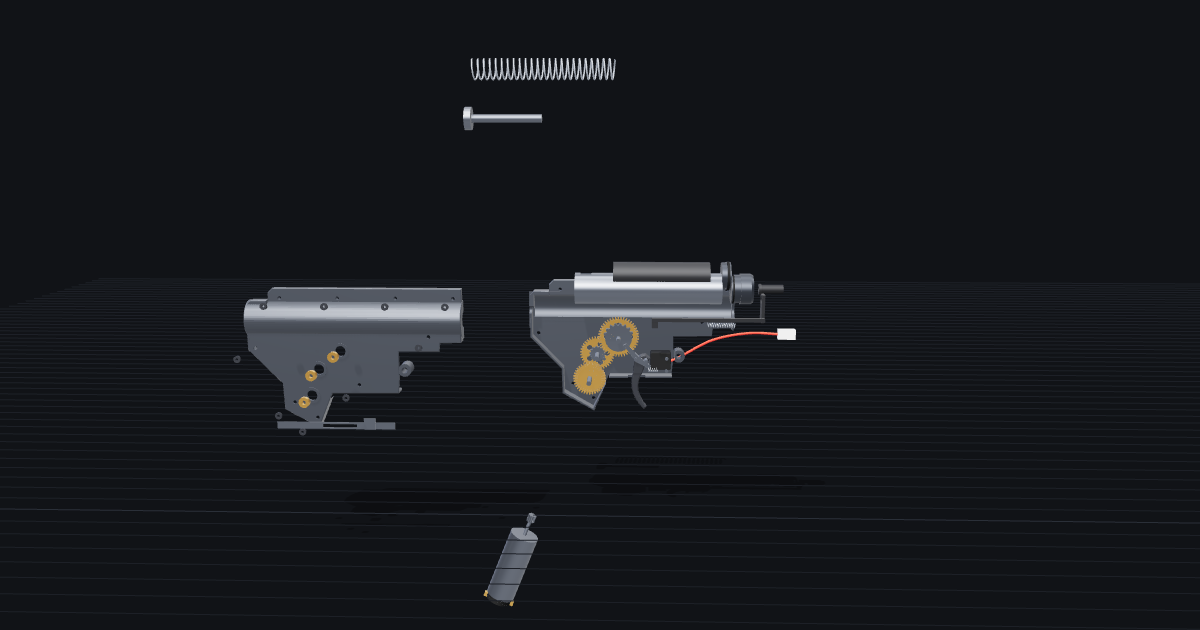
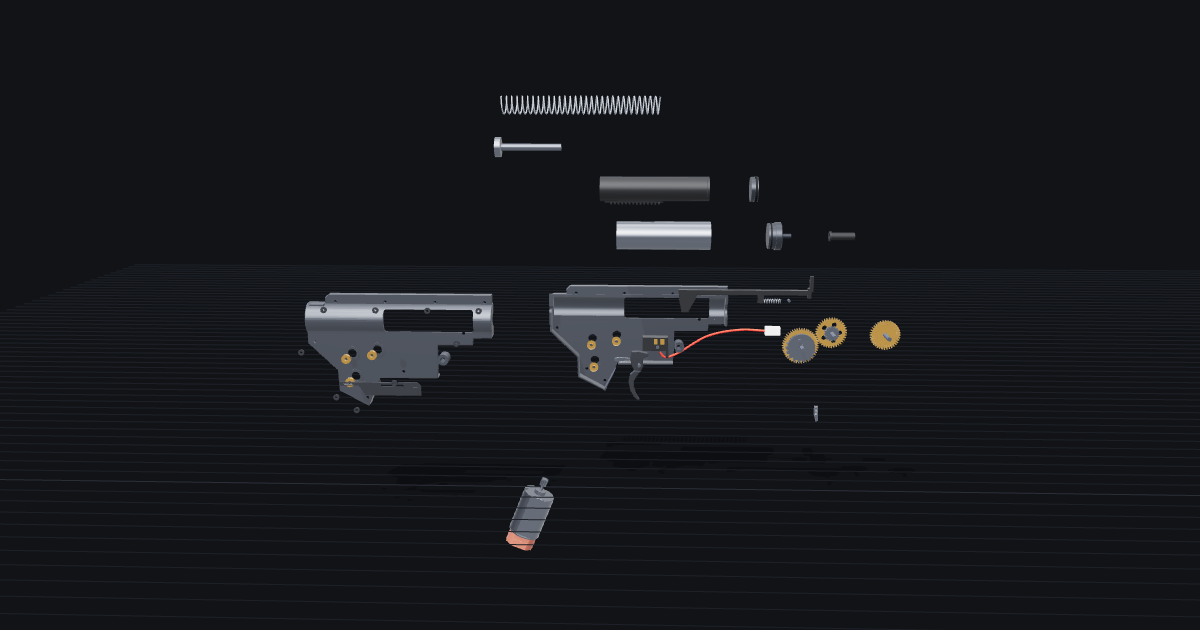
v2: place the inside parts from photos of open V2 gearboxes
The shell scan was stretched 10% tall to fit parts traced from an old
photo; it now keeps the scan's proportions at G&G's 162mm length. The
gears, cylinder, piston, tappet plate, switch, trigger, cut-off lever,
anti-reversal latch and selector plate are placed from iFixit's photos
of an open A&K V2 and checked against Sixmm's CYMA photos. Gear sizes
are set so each pair meshes, the piston is hollow with a 14-tooth rack,
the sector gear turns the right way and the trigger pulls back.

Changed region(s): [[0.185, 0.2714, 0.7708, 0.6937], [0.37, 0.0905, 0.555, 0.2413], [0.4008, 0.754, 0.4625, 0.9651]]

diff --git a/v2/index.html b/v2/index.html
@@ -614,24 +614,29 @@ function part(id, name, cat, spec, explode, stage, info, pieces, opts = {}) {
 // The shell follows Siris Rui's 3D scan of a V2 shell (Printables 778454, public domain; 159 x 99 x 25.5mm, which G&G's
 // listed 162 x 101 x 25mm confirms): a round cylinder housing with a screw fin along its top, over a narrower flat-sided
 // body that steps down to the stem the motor drives up into, with a lug for the front pin under its nose. A window is cut
-// through each side of the housing over the front half of the cylinder, as on the CYMA and Specna shells. The inside parts
-// follow the Stoner page's trace of an open V2 half (Team Black Sheep's photo, 3.5 px/mm); parts built in that page's frame
-// are shifted forward by D. VS maps the scan (y back from the front face, z up) onto the gears traced from the photo; the
-// round section is widened a little to clear that trace's cylinder and gears, and the step in front of the trigger is
-// moved 6mm forward of the scan's to clear the switch. Inside parts are approximate.
+// through each side of the housing over the cylinder, as on the CYMA and Specna shells. VS maps the scan (y back from the
+// front face, z up) into this frame, scaled up 2.6% to G&G's length. The scan is a closed outer shape, so the parts inside
+// are placed from iFixit's photo of an open A&K V2 laid flat (PH maps that photo, 1600px wide, at 6.9 px/mm), checked
+// against Sixmm's side photos of a CYMA V2: the gear axles, the cylinder, the tappet plate and its spring, the switch,
+// the trigger, the cut-off lever and the anti-reversal latch. Gear sizes are set so each pair meshes. Inside parts are
+// approximate.
 const D2R = Math.PI / 180;
-const NOZ_TIP = -20.9, D = NOZ_TIP + 141;            // nozzle tip; shift from the Stoner page's gearbox frame
+const NOZ_TIP = -20.9;                               // nozzle tip
 const GRIP_A = 21.5 * D2R;                           // motor lean, set by the raked stem
-const GX = px => NOZ_TIP + (px - 732) / 3.5, GY = py => (133 - py) / 3.5, GP = pts => pts.map(([a, b]) => [GX(a), GY(b)]);
-const SECTOR = [GX(365), GY(213)], SPUR = [GX(305), GY(263)], BEVEL = [GX(283), GY(335)];
-const GB_FRONT = -33.8, VS = ([y, z]) => [GB_FRONT - 1.026 * y, 1.1 * (z - 76.5)], VSP = pts => pts.map(VS);
-const GB_REAR = VS([158.75, 0])[0], HOUSE_R = 14, BODY_Z = 11, GB_FLOOR = -48.5;
-const sh = g => g.translate(D, 0, 0);
+const GB_FRONT = -33.8, VS = ([y, z]) => [GB_FRONT - 1.026 * y, 1.026 * (z - 76.5)], VSP = pts => pts.map(VS);
+const PH = (px, py) => [GB_FRONT + (px - 1227) / 6.9, (190 - py) / 6.9], PHP = pts => pts.map(p => PH(...p));
+const GB_REAR = VS([158.75, 0])[0], HOUSE_R = 14, BODY_Z = 11, GB_FLOOR = VS([0, 27])[1];
+// gear axles: the photos put the sector at (-135, -26) and the bevel at (-155.5, -50.5); the spur sits where its pinion
+// meshes the sector (16.2 + 6.8) and its big gear the bevel's pinion (14 + 7)
+const SECTOR = [-135, -26], SPUR = [-157.7, -29.6], BEVEL = [-155.5, -50.5];
+const SEC_R = 16.2, SEC_PIN = 6.8, SPUR_R = 14, BEV_PIN = 7, SEC_T = 14;   // sector big gear, spur pinion, spur big gear, bevel pinion, sector teeth
 const ringZ = (ri, ro, cx, cy, z0, z1, seg = 24) => latheX([[ri, z0], [ro, z0], [ro, z1], [ri, z1], [ri, z0]], seg).rotateY(-Math.PI / 2).translate(cx, cy, 0);
 const GB_PIN = VS([42.5, 42.3]);
 const GB_SCREWS = VSP([[153, 57.4], [126, 19], [109.4, 8], [76.9, 31.7], [24, 66]]), GB_TOP_SCREWS = [6.25, 48.75, 91.9, 135].map(y => VS([y, 91.6]));
-const TRG_PV = [-103.8, -39.6];                      // trigger pivot
-const TRG_SLOT = bx(-118, -104, -62, -50, -4, 4);    // where the trigger blade leaves the bottom of the shell
+const TRG_PV = PH(645, 507);                         // trigger pivot
+const TRG_SLOT = bx(-130, -115, -60, -46, 1, 7);     // where the trigger blade leaves the bottom of the shell
+// the air system at rest, piston forward: cylinder, its head, the piston's back end and the inside face of its head
+const CYL = [PH(600, 0)[0], -46], PST_BACK = -149, PST_FLOOR = -58;
 // Each part comes off in strip order: the motor and the selector plate first, then the right half, the spring and guide,
 // the cylinder and piston with the tappet plate, the gears, and last the trigger group. STAGE gives each step's span.
 const STAGE = { motor: [0, 0.1], plate: [0.08, 0.18], half: [0.16, 0.3], spring: [0.3, 0.42], air: [0.4, 0.55], gears: [0.53, 0.7], trig: [0.68, 0.85], wires: [0.8, 0.95] };
@@ -659,7 +664,7 @@ function gbHalf(s) {   // s = -1 left half, +1 right half; the halves meet on th
   const holes = [bore, pocket, TRG_SLOT, cyl(6, 6, 'x', GB_FRONT, 0, 0, 24), cyl(3.2, 6, 'x', GB_REAR, 0, 0, 16),
     ...[SECTOR, SPUR, BEVEL].map(([x, y]) => cyl(4, 40, 'z', x, y, 0, 24)), cyl(2.3, 40, 'z', ...GB_PIN, 0, 16),
     ...[...GB_SCREWS, ...GB_TOP_SCREWS].map(([x, y]) => cyl(1.4, 40, 'z', x, y, 0, 12))];
-  // the cylinder window: the side of the housing is open over the front half of the cylinder, corners radiused
+  // the cylinder window: the side of the housing is open over the cylinder, corners radiused
   const win = prof(rr(VS([92, 0])[0], VS([15, 0])[0], -9.8, 10.2, 2.5), 16, 0).translate(0, 0, s * 13);
   const half = Array.from({ length: 33 }, (_, i) => { const t = Math.PI * (i / 32 - 0.5); return [s * HOUSE_R * Math.cos(t), HOUSE_R * Math.sin(t)]; });
   const body = cut(profR(out, BODY_Z, 0.8).translate(0, 0, s * BODY_Z / 2), [...holes, win]);
@@ -672,7 +677,7 @@ function gbHalf(s) {   // s = -1 left half, +1 right half; the halves meet on th
 }
 const bushings = s => [SECTOR, SPUR, BEVEL].map(([x, y]) => [ringZ(1.6, 4, x, y, s * (BODY_Z - 2.5), s * (BODY_Z + 0.8)), 'brass']);
 part('gearboxL', 'Shell, left half', 'shell', 'Zinc alloy casting; CNC aluminium shells are the upgrade', [0, 0, 0], STAGE.half,
-  'Left half of the shell. It stays put while everything else comes out: the inside parts all sit in this half, so the gearbox is opened by lifting the right half off. Its shape follows a 3D scan of a real shell: the round housing on top for the cylinder with a window cut in its side over the front half of the cylinder, the fin along its top for four screws, the flat-sided body, the step in front of the trigger, and the raked stem at the back that drops into the pistol grip with the bevel gear in it. The lug under the nose takes the front body pin.',
+  'Left half of the shell. It stays put while everything else comes out: the inside parts all sit in this half, so the gearbox is opened by lifting the right half off. Its shape follows a 3D scan of a real shell: the round housing on top for the cylinder with a window cut in its side over the cylinder, the fin along its top for four screws, the flat-sided body, the step in front of the trigger, and the raked stem at the back that drops into the pistol grip with the bevel gear in it. The lug under the nose takes the front body pin.',
   gbHalf(-1), { shell: true });
 part('gearboxR', 'Shell, right half', 'shell', 'Same casting as the left, mirrored', [-210, 0, 40], STAGE.half,
   'Right half. Take out the selector plate and the screws first, then lift it straight off: the spring is under load, so keep a thumb on the spring guide until it comes free.',
@@ -691,85 +696,87 @@ part('screws', 'Shell screws (x9)', 'shell', 'Phillips, five on the side and fou
 // ================= AIR SYSTEM =================
 part('springGuide', 'Spring guide', 'air', 'Fixed, or quick-change on many shells', [-40, 150, 40], STAGE.spring,
   'Guide rod the main spring rides on, its flange held in the back of the shell. Steel guides with a bearing under the spring let the spring turn as it compresses, so it does not twist the piston. Quick-change shells let the guide come out from the back without opening the gearbox.',
-  [[latheX([[0, GB_REAR - 1.5], [8.5, GB_REAR - 1.5], [8.5, GB_REAR + 3.5], [3, GB_REAR + 3.5], [3, -262 + D], [0, -262 + D]], 20), 'steel']]);
+  [[latheX([[0, GB_REAR - 1.5], [8.5, GB_REAR - 1.5], [8.5, GB_REAR + 3.5], [3, GB_REAR + 3.5], [3, -142], [0, -142]], 20), 'steel']]);
 part('mainSpring', 'Main spring', 'air', 'Rated M90 to M150; the rating sets the power', [-40, 185, 40], STAGE.spring,
   'The spring the sector gear compresses through the piston. Its rating (M90, M100, M120 and so on) sets the muzzle velocity more than anything else in the gearbox; stronger springs load the gears and the motor harder.',
-  [[spring(7.2, 0.7, 104, 24, 'x', GB_REAR + 4.5, 0, 0), 'spring']]);
+  [[spring(7.2, 0.7, PST_FLOOR - GB_REAR - 4.5, 30, 'x', GB_REAR + 4.5, 0, 0), 'spring']]);
+// 14 rack teeth on the underside, the rearmost over the sector gear's axle when the piston is forward; the spring runs
+// inside the hollow body
 part('piston', 'Piston', 'air', 'Polymer, 14 teeth on the rack', [0, 115, 40], STAGE.air,
-  'Polymer piston with a toothed rack along its underside. The sector gear draws it back by the rack, compressing the spring, and lets it go off the last tooth. The spring runs inside it. The first tooth takes the shock of each pickup, which is why half-steel and full-steel racks exist.',
-  [[sh(latheX([[0, -250], [10.6, -250], [10.6, -175], [0, -175]], 28)), 'nylon'],
-   [sh(bx(-250, -237, -11.6, -9, -2, 2)), 'steel'],
-   ...Array.from({ length: 6 }, (_, i) => [sh(bx(-249.4 + i * 2.2, -248.2 + i * 2.2, -13, -11.5, -2, 2)), 'steel'])]);
+  'Polymer piston, hollow for the spring, with a toothed rack along its underside. The sector gear picks up the rearmost tooth and draws the piston back by the rack, compressing the spring, and lets it go off the front tooth. The first tooth takes the shock of each pickup, which is why half-steel and full-steel racks exist.',
+  [[latheX([[8.8, PST_BACK], [10.6, PST_BACK], [10.6, -56], [0, -56], [0, PST_FLOOR], [8.8, PST_FLOOR], [8.8, PST_BACK]], 28), 'nylon'],
+   [bx(PST_BACK + 4, -95, -11.4, -9, -2, 2), 'nylon'],
+   [mergeGeometries(Array.from({ length: 14 }, (_, i) => prof([[-1.1, 0], [1.1, 0], [0.55, -2], [-0.55, -2]], 4, 0).translate(-139.4 + i * 3.14, -11.2, 0))), 'nylon']]);
 part('pistonHead', 'Piston head + O-ring', 'air', 'Polymer or aluminium, ported or sealed', [35, 115, 40], STAGE.air,
   'Head screwed to the front of the piston with its O-ring. It seals against the cylinder wall and drives the air forward; a ported head and a sealed one trade a quieter stroke against a softer seal.',
-  [[sh(latheX([[0, -175], [10.6, -175], [10.6, -172], [10.8, -172], [10.8, -168], [0, -168]], 28)), 'alu'],
-   [sh(latheX([[10, -171], [11.2, -171], [11.2, -169], [10, -169]], 24)), 'black']]);
+  [[latheX([[0, -56], [10.6, -56], [10.6, -53], [10.8, -53], [10.8, -50], [0, -50]], 28), 'alu'],
+   [latheX([[10, -52.6], [11.2, -52.6], [11.2, -50.8], [10, -50.8]], 24), 'black']]);
 part('cylinder', 'Cylinder', 'air', 'Ported, its type matched to the inner barrel length', [-10, 75, 40], STAGE.air,
-  'Cylinder the piston runs in. Its port lets only part of the swept air reach the barrel; the port is sized to the inner barrel (type 0 to 4, or a full unported cylinder for long barrels), so a barrel swap can call for a different cylinder.',
-  [[cut(tube(11.3, 12.2, GX(255), GX(655), 32), [bx(GX(270), GX(300), 5, 20, -4, 4)]), 'steel']]);
+  'Cylinder the piston runs in, about 80mm long. Its port lets only part of the swept air reach the barrel; the port is sized to the inner barrel (type 0 to 4, or a full unported cylinder for long barrels), so a barrel swap can call for a different cylinder.',
+  [[cut(tube(11.3, 12.2, CYL[0], CYL[1] + 2, 32), [bx(-104, -92, 5, 14, -2.6, 2.6)]), 'steel']]);
 part('cylinderHead', 'Cylinder head + O-ring', 'air', 'Polymer or aluminium', [45, 75, 40], STAGE.air,
   'Plug in the front of the cylinder, with an O-ring sealing it to the cylinder and a padded face the piston head stops against. The nozzle slides on its front spigot.',
-  [[sh(latheX([[3.4, -170], [11.2, -170], [11.2, GX(655) - D], [12.2, GX(655) - D], [12.2, GX(683) - D], [11, GX(690) - D], [3.4, GX(690) - D]], 28)), 'alu'],
-   [sh(latheX([[10.6, -169.1], [11.4, -169.1], [11.4, -167.9], [10.6, -167.9]], 24)), 'black']]);
+  [[latheX([[0, -50], [11.2, -50], [11.2, -44], [12.2, -44], [12.2, -39.2], [11, -38.5], [2.1, -38.5], [2.1, -30], [0, -30]], 28), 'alu'],
+   [latheX([[10.6, -48.2], [11.4, -48.2], [11.4, -47], [10.6, -47]], 24), 'black']]);
 part('nozzle', 'Air nozzle', 'air', 'M4: 21.4mm; length varies by gun', [90, 75, 40], STAGE.air,
-  'Nozzle that slides on the cylinder head\'s spigot, its tip reaching into the hop-up. The tappet plate pulls it back so a BB can rise from the magazine, then pushes it forward to seat the BB in the bucking. The one part that differs most between V2 guns: an M4 nozzle is 21.4mm, an MP5\'s a little shorter, and the wrong length feeds badly or leaks.',
-  [[sh(tube(2.2, 3.4, -160, -141, 20)), 'nylon'], [sh(tube(2.2, 4.2, -160, -158, 20)), 'nylon']]);
+  'Nozzle that slides on the cylinder head\'s spigot, its tip reaching into the hop-up. Its collar sits in the tappet plate\'s fork, which pulls it back so a BB can rise from the magazine, then pushes it forward to seat the BB in the bucking. The one part that differs most between V2 guns: an M4 nozzle is 21.4mm, an MP5\'s a little shorter, and the wrong length feeds badly or leaks.',
+  [[tube(2.2, 3.4, NOZ_TIP - 21.4, NOZ_TIP, 20), 'nylon'], [tube(2.2, 4.4, NOZ_TIP - 21.4, NOZ_TIP - 20, 20), 'nylon']]);
+// tappet plate, from the photo: a strip along the bottom of the cylinder, a riser at the front with the fork round the
+// nozzle, a hook for the return spring, and a tab hanging down behind the sector gear's axle for its cam pin
 part('tappet', 'Tappet plate + spring', 'air', 'Polymer; M4 and MP5 types differ', [70, 40, 40], STAGE.air,
-  'Plate under the cylinder whose fork holds the nozzle. A cam on the sector gear pulls it back once per turn, and its return spring snaps it forward to chamber the next BB.',
-  [[sh(cut(bx(-152.5, -150, -17, 5, -5, 5), [cyl(3.5, 6, 'x', -151, 0, 0, 16)])), 'nylon'],
-   [sh(bx(-238, -150, -16, -13.2, 5, 8)), 'nylon'], [sh(bx(-238, -233, -21, -13.2, 5, 8)), 'nylon'],
-   [spring(1.6, 0.35, 22, 12, 'x', GX(545), -18.6, 6.5), 'spring']]);
+  'Plate along the bottom of the cylinder, its fork at the front holding the nozzle. A pin on the sector gear pushes its tab back once per turn, drawing the nozzle back to let a BB up, and the return spring in front snaps it forward to chamber the BB.',
+  [[profR(PHP([[420, 268], [1188, 268], [1188, 255], [1212, 255], [1212, 318], [1188, 318], [1188, 300], [930, 300], [930, 345], [912, 352], [895, 345], [895, 300], [530, 300], [520, 330], [480, 408], [440, 408], [425, 330]]), 3, 0.4).translate(0, 0, 4.5), 'nylon'],
+   [cut(bx(-37.6, -34.6, -4.6, 1, 0.5, 6), [cyl(3.5, 8, 'x', -36, 0, 0, 20)]), 'nylon'], [bx(-37.6, -34.6, -12.5, -4.6, 3, 6), 'nylon'],
+   [spring(1.8, 0.35, 15, 10, 'x', PH(930, 0)[0], PH(0, 336)[1], 4.5), 'spring'],
+   [cyl(1.2, 5, 'z', ...PH(1080, 332), 4.5, 12), 'steel']]);
 
 // ================= GEARS =================
 part('sectorGear', 'Sector gear', 'gear', 'Teeth on part of its edge only', [165, 0, 30], STAGE.gears,
-  'Gear with teeth on part of its edge: they draw the piston back by its rack and then run out, letting the piston go once per turn. Its cam works the tappet plate and the cut-off lever. Shims on the axle set its play; too much play chews the piston rack.',
-  (() => { const [sx, sy] = SECTOR;
-    return [[gear(16.5, 44, 3, sx, sy, -5.5, { hole: 2, lite: 4 }), 'brass'], [gear(12.4, 18, 3.6, sx, sy, 0, { hole: 2, span: [15, 175] }), 'steel'],
-      [cyl(6.5, 2, 'z', sx, sy, -2.9, 24), 'brass'], [cyl(1.9, 22, 'z', sx, sy, 0, 12), 'steel']]; })());
+  'Gear with teeth on half its edge: they pick up the piston\'s rack, draw it back 44mm, then run out and let it go, once per turn. The pin on its face pushes the tappet plate back first, and the cam on its other face trips the cut-off lever. Shims on the axle set its play; too much play chews the piston rack.',
+  (() => { const [sx, sy] = SECTOR, pin = [sx + 7 * Math.cos(110 * D2R), sy + 7 * Math.sin(110 * D2R)];
+    return [[gear(SEC_R, 46, 3, sx, sy, -5.6, { hole: 2, lite: 5 }), 'brass'], [gear(SEC_T, 18, 3.6, sx, sy, 0, { hole: 2, span: [162, 342] }), 'steel'],
+      [cyl(1.4, 3, 'z', ...pin, 3.2, 12), 'steel'], [cyl(4, 1.2, 'z', sx, sy, -7.7, 20), 'steel'], [cyl(1.9, 22, 'z', sx, sy, 0, 12), 'steel']]; })());
 part('spurGear', 'Spur gear', 'gear', 'Middle gear', [215, 15, 30], STAGE.gears,
   'Middle gear between the bevel and the sector gear. The three gears together set the ratio; around 18:1 is the common stock ratio, lower numbers trade pull for rate of fire.',
   (() => { const [px, py] = SPUR;
-    return [[gear(14, 37, 2.5, px, py, -8.4, { hole: 2, lite: 5 }), 'brass'], [gear(6.5, 15, 3.6, px, py, -5.5, { hole: 2 }), 'steel'], [cyl(1.9, 22, 'z', px, py, 0, 12), 'steel']]; })());
+    return [[gear(SPUR_R, 37, 2.5, px, py, -8.4, { hole: 2, lite: 5 }), 'brass'], [gear(SEC_PIN, 16, 3.6, px, py, -5.5, { hole: 2 }), 'steel'], [cyl(1.9, 22, 'z', px, py, 0, 12), 'steel']]; })());
 part('bevelGear', 'Bevel gear', 'gear', 'Crown teeth for the motor pinion', [260, 35, 30], STAGE.gears,
   'Gear with crown teeth on its face that the motor\'s pinion drives. The ratchet teeth on its rim are for the anti-reversal latch. The motor height screw in the grip sets how deep the pinion meshes; a whine means it is off.',
   (() => { const [bx0, by0] = BEVEL;
     const crown = mergeGeometries(Array.from({ length: 36 }, (_, i) => bx(9.6, 13.2, -0.55, 0.55, -4.6, -3.4).rotateZ(i * 10 * D2R))).translate(bx0, by0, 0);
-    return [[gear(13.4, 36, 2, bx0, by0, -5.6, { hole: 2 }), 'brass'], [crown, 'brass'], [gear(7, 17, 2.6, bx0, by0, -8.4, { hole: 2 }), 'steel'], [cyl(1.9, 22, 'z', bx0, by0, 0, 12), 'steel']]; })());
+    return [[gear(13.4, 36, 2, bx0, by0, -5.6, { hole: 2 }), 'brass'], [crown, 'brass'], [gear(BEV_PIN, 17, 2.6, bx0, by0, -8.4, { hole: 2 }), 'steel'], [cyl(1.9, 22, 'z', bx0, by0, 0, 12), 'steel']]; })());
+// the latch pivots on a post against the back wall of the stem, its tip on the bevel gear's rim; its tail reaches the
+// side of the shell, where a pick through the hole releases it
 part('antiReversal', 'Anti-reversal latch + spring', 'gear', 'Ratchet pawl on the bevel gear', [215, -40, 30], STAGE.gears,
   'Pawl riding on the bevel gear that stops the gears running backwards under spring load when the motor stops. Release it (a tool through the shell, or by hand once open) before taking the gears out, or the spring unloads through your fingers.',
-  [[sh(profR([[-259, -40], [-255.6, -40.6], [-256, -44], [-260, -49.4], [-262, -48.4]], 2, 0.3)).translate(0, 0, -8.4), 'steel'],
-   [sh(cyl(1.2, 5, 'z', -257.4, -41.6, -8.4, 10)), 'steel']]);
+  [[profR([[-170, -42.6], [-166.8, -42.6], [-166, -56.4], [-168, -57.6], [-170, -50]], 2, 0.3).translate(0, 0, -5.6), 'steel'],
+   [cyl(1.2, 6, 'z', -168.5, -44.2, -5.6, 10), 'steel'], [spring(0.9, 0.25, 6, 5, 'y', -168.4, -50, -3.6), 'spring']]);
 
 // ================= TRIGGER, SWITCH AND SELECTOR =================
 part('trigger', 'Trigger + spring', 'trig', 'M4 type; other guns use their own', [70, -70, 30], STAGE.trig,
-  'Trigger on its pin in the shell, its blade out through the slot in the bottom. Pulling it pushes the switch contacts closed; its spring returns it. The blade differs between guns (an MP5\'s reaches further down); the part inside the gearbox stays the same.',
-  (() => {
-    const q = (t, a, b, c) => (1 - t) ** 2 * a + 2 * t * (1 - t) * b + t * t * c, F = [], B = [];
-    for (let i = 0; i <= 12; i++) {   // blade along a quadratic curve, tapering to the tip and curling forward
-      const t = i / 12, x = q(t, -110, -117, -104), y = q(t, -50, -66, -80);
-      const dx = 2 * (1 - t) * (-117 + 110) + 2 * t * (-104 + 117), dy = 2 * (1 - t) * (-66 + 50) + 2 * t * (-80 + 66), l = Math.hypot(dx, dy), w = 3.4 - 1.8 * t;
-      F.push([x - dy / l * w, y + dx / l * w]); B.push([x + dy / l * w, y - dx / l * w]);
-    }
-    return [[profR([[-100.2, -38.7], [-104, -35.6], [-108, -36.4], [-113, -41], [-114.2, -52], [-107, -52], [-104, -44]], 7, 1), 'blued'],
-      [profR([...F, ...B.reverse()], 6, 1), 'blued'],
-      [cyl(1.5, 22, 'z', ...TRG_PV, 0, 12), 'steel'], [spring(1.6, 0.3, 8, 5, 'x', TRG_PV[0] + 2, TRG_PV[1] - 8, 4), 'spring']];
-  })());
+  'Trigger on its pin in the shell, its blade out through the slot in the bottom. Pulling it lifts its front arm into the switch and closes the contacts; its spring returns it. The blade differs between guns (an MP5\'s reaches further down); the part inside the gearbox stays the same.',
+  [[profR(PHP([[598, 420], [645, 418], [700, 430], [705, 447], [668, 470], [672, 515], [657, 548], [615, 545], [598, 515], [588, 465]]), 4, 0.6).translate(0, 0, 4), 'blued'],
+   [profR(PHP([[657, 548], [637, 575], [614, 615], [614, 660], [630, 705], [650, 738], [640, 744], [616, 724], [590, 682], [578, 622], [588, 570], [615, 545]]), 4, 0.8).translate(0, 0, 4), 'blued'],
+   [cyl(1.5, 20, 'z', ...TRG_PV, 0, 12), 'steel'], [spring(1.4, 0.3, 7, 5, 'y', TRG_PV[0] - 4, TRG_PV[1] - 4, 1.4), 'spring']]);
 part('switch', 'Switch assembly', 'trig', 'Contacts; a MOSFET or ETU takes the load off them', [110, -60, 30], STAGE.trig,
-  'Trigger contacts in a block screwed into the shell. The trigger closes them and the motor runs; the cut-off lever lifts them open once per cycle on semi. The contacts carry the full motor current and burn over time, the main reason for fitting a MOSFET or an electronic trigger unit.',
-  [[profR(rr(GX(455), GX(512), GB_FLOOR + 1, GY(250), 1, 2), 10, 0.5), 'black'],
-   ...[267, 302].map(py => [ringZ(0, 1.4, GX(500), GY(py), 5, 5.8, 12), 'steel']),
-   [bx(GX(470), GX(478), GB_FLOOR + 2, GY(262), -3, 3), 'brass']]);
+  'Trigger contacts in a block screwed into the shell, in front of the sector gear. The trigger\'s arm closes them and the motor runs; the cut-off lever lifts them open once per cycle on semi. The contacts carry the full motor current and burn over time, the main reason for fitting a MOSFET or an electronic trigger unit.',
+  [[profR(PHP([[650, 330], [810, 330], [815, 465], [798, 465], [798, 420], [650, 420]]), 8, 0.5).translate(0, 0, 1.5), 'nylon'],
+   ...[[722, 744], [762, 788]].map(([a, b]) => [bx(PH(a, 0)[0], PH(b, 0)[0], PH(0, 376)[1], PH(0, 340)[1], 5.5, 6.1), 'brass']),
+   [cyl(1.6, 9, 'z', ...PH(745, 395), 1.5, 12), 'steel']]);
 part('cutoff', 'Cut-off lever + spring', 'trig', 'Semi-auto cut-off', [70, -30, 30], STAGE.trig,
   'Lever under the sector gear: a cam on the gear knocks it each turn, and on semi it lifts the switch open so the motor stops after one shot. Put it back before the trigger, with its spring hooked.',
-  [[sh(profR([[-242, -27.5], [-239.5, -26], [-230, -36], [-219, -45], [-220.5, -47.5], [-232, -41]], 1.6, 0.3)).translate(0, 0, 4), 'steel'],
-   [sh(cyl(1.4, 4, 'z', -232, -39, 4, 10)), 'steel']]);
+  [[profR(PHP([[488, 492], [500, 482], [585, 486], [592, 496], [580, 504], [500, 508]]), 1.6, 0.3).translate(0, 0, 1.2), 'steel'],
+   [cyl(1.4, 4, 'z', ...PH(497, 496), 1.2, 10), 'steel'], [spring(0.8, 0.22, 7, 5, 'x', ...PH(520, 512), 1.2), 'spring']]);
+// the selector plate sits on the outside of the right half, over the sector gear's bushing and above the spur's (the
+// scan's 75 x 15mm block)
 part('selPlate', 'Selector plate', 'trig', 'M4 type; set by the gun\'s selector', [-210, -30, 60], STAGE.plate,
   'Slotted plate on the outside of the right half. The gun\'s selector lever turns a cam that slides it, and its tabs reach through the shell to block the trigger (safe) or set the switch for semi or full. The first part off; it is easy to lose its spring. The plate differs between gun families.',
-  [[cut(bx(-170, GX(520), GY(300), GY(282), BODY_Z, BODY_Z + 0.9), [bx(GX(330), GX(420), GY(296), GY(287), 10, 20)]), 'steel'],
-   [bx(GX(440), GX(470), GY(300), GY(270), BODY_Z + 0.9, BODY_Z + 2.2), 'steel']]);
+  [[cut(profR([[-164, -19.5], [-96, -19.5], [-93, -22.5], [-93, -31.5], [-142, -31.5], [-147, -22.8], [-164, -22.8]], 0.9, 0.2).translate(0, 0, BODY_Z + 1.25),
+     [prof(rr(-128, -108, -23.4, -21.6, 0.9), 4, 0).translate(0, 0, BODY_Z)]), 'blued'],
+   [bx(-100, -96, -30.5, -24, BODY_Z + 1.7, BODY_Z + 3), 'blued'], [spring(0.7, 0.2, 8, 6, 'x', -160, -21.15, BODY_Z + 2.2), 'spring']]);
 part('wiring', 'Wiring + connector', 'trig', 'Front or rear wired', [130, -95, 20], STAGE.wires,
   'Leads from the switch and the motor. This one is front-wired: the leads run forward under the cylinder to a battery in the handguard. Rear-wired gearboxes route them back along the shell to a battery in the stock.',
-  [[tubeAlong([[GX(470), GB_FLOOR + 2, -6], [-80, -42, -9], [-50, -26, -9], [-20, -20, -9], [2, -20, -6]], 1.1, 60), 'red'],
+  [[tubeAlong([[...PH(805, 470), -4], [-90, -46, -6], [-80, -44, -9], [-50, -26, -9], [-20, -20, -9], [2, -20, -6]], 1.1, 60), 'red'],
    [bx(2, 16, -24, -16, -9, -3), 'white']]);
 
 // ================= OUTSIDE THE GEARBOX =================
@@ -912,7 +919,9 @@ const SOURCES = `<p class="src">Sources: <a href="https://www.printables.com/mod
 <a href="https://www.youtube.com/watch?v=yAk1HI4xbGk">D-RZ Airsoft, MP5 gearbox removal</a> (a stock V2 opened up),
 <a href="https://www.patrolbase.co.uk/gearboxes">Patrol Base product photos of CYMA and Specna V2 shells</a> and <a href="https://www.retroarms.com/cnc-gearbox/cnc-gearbox-v2-8mm-bearings-qsc">RetroArms, CNC V2 shell</a> (the cylinder window),
 <a href="https://www.vsdmotor.com/airsoft-motor/high-speed-long-d-axis-airsoft-aeg-motor.html">VSD, long-type AEG motor outline drawing</a> (the motor's dimensions),
-<a href="../stoner96/">Stoner 96 page</a> (the trace of the inside parts). Inside shapes and positions are approximate.</p>`;
+<a href="https://www.ifixit.com/Guide/Airsoft+V2+Gearbox++Piston+Replacement/130410">iFixit, Airsoft V2 gearbox piston replacement</a> (photos of an open A&amp;K V2: where the gears, cylinder, tappet plate, switch, trigger, cut-off lever and anti-reversal latch sit),
+<a href="https://www.sixmm.com/products/cymaitem-no-ma001-complete-gearbox-full-set-version-2for-aeg-m16">Sixmm, CYMA complete V2 gearbox</a> (both sides closed: the bushings, the selector plate, the 80mm cylinder),
+<a href="https://gunfire.com/en/products/complete-gearbox-v2-specna-arms-aether-tm-hal-tm-etu-1152240884.html">Gunfire, Specna Arms Aether V2 gearbox</a> (the gear layout marked on its shell). Inside shapes and positions are approximate.</p>`;
 function showOverview() {
   infoBody.innerHTML = `<h2>V2 gearbox</h2>
   <div class="meta">The Tokyo Marui Version 2 gearbox: the split-shell AEG gearbox of the M4/M16 and MP5 families and the many guns built round the same internals.</div>
@@ -1130,7 +1139,7 @@ const turnAbout = (p, [px, py], a) => {
   p.position.y += py - (px * Math.sin(a) + py * Math.cos(a));
 };
 // piston stroke, the spring's back end and its length
-const STROKE = 44, SPRING_BACK = GB_REAR + 4.5, SPRING_LEN = 104;
+const STROKE = 44, SPRING_BACK = GB_REAR + 4.5, SPRING_LEN = PST_FLOOR - SPRING_BACK;
 renderer.setAnimationLoop(() => {
   // steady rate rather than an ease-out, so each stage of the strip gets its share of the time
   exCur += THREE.MathUtils.clamp(exTarget - exCur, -0.015, 0.015);
@@ -1139,8 +1148,8 @@ renderer.setAnimationLoop(() => {
   // the trigger comes back over the first fifth and closes the switch; then the sector gear turns once: its cam draws
   // the tappet and nozzle back to feed a BB, its teeth pick up the rack and draw the piston back from 30% to 80% of
   // the turn, and the last tooth lets the piston fly forward and the air sends the BB off
-  const tA = 10 * D2R * THREE.MathUtils.clamp(trigCur / 0.2, 0, 1), u = THREE.MathUtils.clamp((trigCur - 0.2) / 0.8, 0, 1);
-  const pull = u < 0.8 ? STROKE * THREE.MathUtils.clamp((u - 0.3) / 0.5, 0, 1) : 0, aS = -u * 2 * Math.PI;
+  const tA = -10 * D2R * THREE.MathUtils.clamp(trigCur / 0.2, 0, 1), u = THREE.MathUtils.clamp((trigCur - 0.2) / 0.8, 0, 1);
+  const pull = u < 0.8 ? STROKE * THREE.MathUtils.clamp((u - 0.3) / 0.5, 0, 1) : 0, aS = u * 2 * Math.PI;
   const nozBack = 4 * Math.sin(Math.PI * THREE.MathUtils.clamp(u / 0.3, 0, 1));
   for (const p of parts) {
     p.position.set(0, 0, 0); p.rotation.set(0, 0, 0); p.scale.set(1, 1, 1);
@@ -1148,8 +1157,8 @@ renderer.setAnimationLoop(() => {
     const id = p.userData.id;
     if (id === 'trigger') turnAbout(p, TRG_PV, tA);
     if (id === 'sectorGear') turnAbout(p, SECTOR, aS);
-    if (id === 'spurGear') turnAbout(p, SPUR, -aS * 16.5 / 6.5);
-    if (id === 'bevelGear') turnAbout(p, BEVEL, aS * 16.5 / 6.5 * 14 / 7);
+    if (id === 'spurGear') turnAbout(p, SPUR, -aS * SEC_R / SEC_PIN);
+    if (id === 'bevelGear') turnAbout(p, BEVEL, aS * SEC_R / SEC_PIN * SPUR_R / BEV_PIN);
     if (id === 'piston' || id === 'pistonHead') p.position.x -= pull;
     if (id === 'mainSpring') { const s = (SPRING_LEN - pull) / SPRING_LEN; p.scale.x = s; p.position.x += SPRING_BACK * (1 - s); }
     if (id === 'nozzle' || id === 'tappet') p.position.x -= nozBack;
